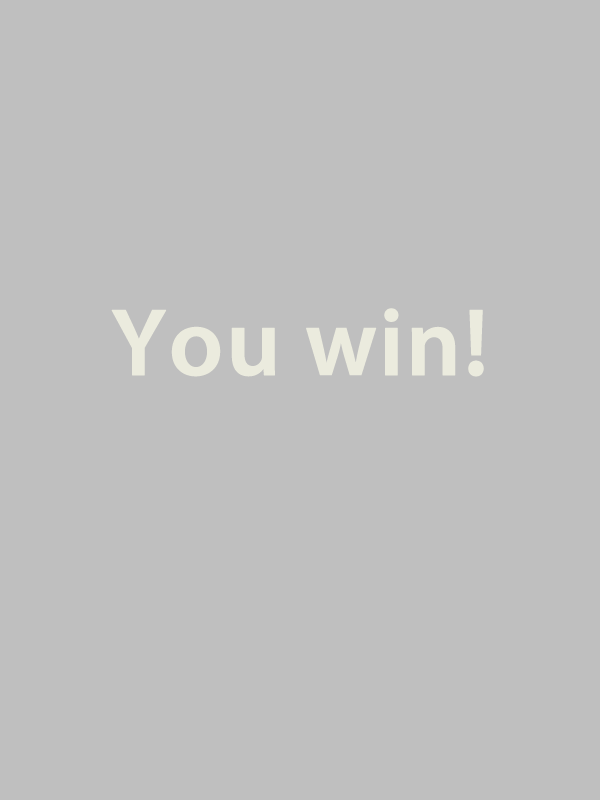
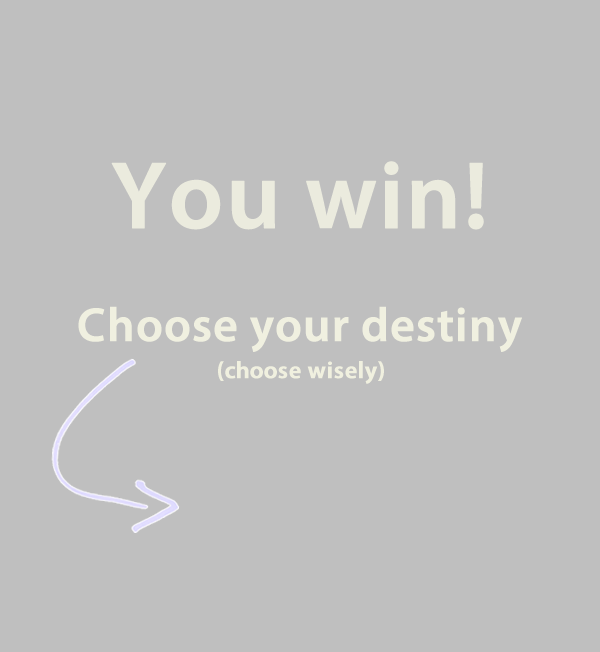
Implemented ContinueButton (to allow player to continue playing after winning).

diff --git a/src/main/java/nl/tudelft/ti2206/game/GameRenderer.java b/src/main/java/nl/tudelft/ti2206/game/GameRenderer.java
@@ -1,5 +1,6 @@
 package nl.tudelft.ti2206.game;
 
+import nl.tudelft.ti2206.buttons.ContinueButton;
 import nl.tudelft.ti2206.buttons.RestartButton;
 import nl.tudelft.ti2206.helpers.AssetHandler;
 import nl.tudelft.ti2206.helpers.ButtonHandler;
@@ -32,8 +33,12 @@ public class GameRenderer {
 	private OrthographicCamera cam;
 	/** */
 	private SpriteBatch batch;
+	
 	/** The button used to initiate a restart. */
 	private RestartButton restartButton;
+	
+	/** The button used to continue the game after winning. */
+	private ContinueButton continueButton;
 
 	/**
 	 * Constructs a GameRenderer object.
@@ -49,6 +54,7 @@ public class GameRenderer {
 		this.world = world;
 
 		restartButton = ButtonHandler.getRestartButton();
+		continueButton = ButtonHandler.getContinueButton();
 		cam = new OrthographicCamera();
 		cam.setToOrtho(true, gameWidth, gameHeight);
 
@@ -82,7 +88,7 @@ public class GameRenderer {
 		drawScoreTile();
 		drawHighscoreTile();
 		drawHighestTile();
-		drawNewGameTile();
+		drawRestartButton();
 
 		if (world.isLost()) {
 			drawLostOverlay();
@@ -165,16 +171,20 @@ public class GameRenderer {
 	/**
 	 * Render the button that will initiate a restart of the game.
 	 */
-	private void drawNewGameTile() {
+	private void drawRestartButton() {
 		restartButton.draw(batch);
 	}
 
+	private void drawContinueButton() {
+		continueButton.draw(batch);
+	}
+	
 	/**
 	 * Draw the lost overlay to show to the user it lost.
 	 */
 	private void drawLostOverlay() {
 		batch.draw(AssetHandler.lost, 0, 0);
-		drawNewGameTile();
+		drawRestartButton();
 	}
 
 	/**
@@ -182,7 +192,8 @@ public class GameRenderer {
 	 */
 	private void drawWonOverlay() {
 		batch.draw(AssetHandler.won, 0, 0);
-		drawNewGameTile();
+		drawRestartButton();
+		drawContinueButton();
 	}
 
 	/**

diff --git a/src/main/java/nl/tudelft/ti2206/helpers/AssetHandler.java b/src/main/java/nl/tudelft/ti2206/helpers/AssetHandler.java
@@ -10,7 +10,7 @@ public class AssetHandler {
 	public static BitmapFont font, whiteFont;
 	/** All sprites used in the game, which should be publicly accessible. */
 	public static Sprite grid, t2, t4, t8, t16, t32, t64, t128, t256, t512,
-			t1024, t2048, empty, score, highscore, highest, newgame, lost, won;
+			t1024, t2048, empty, score, highscore, highest, newgame, continuebutton, lost, won;
 	/** The width of the game. */
 	private static final int GAME_WIDTH = 600;
 	/** The height of the game. */
@@ -66,7 +66,8 @@ public class AssetHandler {
 		manager.load("src/main/resources/fonts/tahomaWhite.fnt",
 				BitmapFont.class);
 		manager.load("src/main/resources/images/newgame.png", Texture.class);
-
+		manager.load("src/main/resources/images/continue.png", Texture.class);
+		
 		/*
 		 * Instruct the asset manager to load everything in its queue, block
 		 * until this is done.
@@ -133,6 +134,12 @@ public class AssetHandler {
 				"src/main/resources/images/newgame.png", Texture.class));
 		setAssetLocation(newgame, GAME_WIDTH / 2 - newgame.getWidth() / 2,
 				GAME_HEIGHT - GAP - newgame.getHeight(), false, true);
+		
+		
+		continuebutton = new Sprite(manager.get(
+				"src/main/resources/images/continue.png", Texture.class));
+		setAssetLocation(continuebutton, GAME_WIDTH / 2 - continuebutton.getWidth() / 2,
+				GAME_HEIGHT - GAP * 3 - continuebutton.getHeight() * 2, false, true);
 	}
 
 	private static void getFonts() {

diff --git a/src/main/java/nl/tudelft/ti2206/helpers/InputHandler.java b/src/main/java/nl/tudelft/ti2206/helpers/InputHandler.java
@@ -1,5 +1,6 @@
 package nl.tudelft.ti2206.helpers;
 
+import nl.tudelft.ti2206.buttons.ContinueButton;
 import nl.tudelft.ti2206.buttons.RestartButton;
 import nl.tudelft.ti2206.game.GameWorld;
 import nl.tudelft.ti2206.gameobjects.Grid.Direction;
@@ -11,10 +12,14 @@ public class InputHandler implements InputProcessor {
 
 	private GameWorld world;
 	private RestartButton restartButton;
+	private ContinueButton continueButton;
 
 	public InputHandler(GameWorld world) {
 		this.world = world;
-		this.restartButton = ButtonHandler.getRestartButton();
+		//this.restartButton = ButtonHandler.getRestartButton();
+		//this.continueButton = ButtonHandler.getContinueButton();
+		setRestartButton(ButtonHandler.getRestartButton());
+		setContinueButton(ButtonHandler.getContinueButton());
 	}
 
 
@@ -68,6 +73,12 @@ public class InputHandler implements InputProcessor {
 			restartButton.onClick(world);
 			return true;
 		}
+		
+		if (continueButton.isTouchDown(screenX, screenY)) {
+			continueButton.onClick(world);
+			return true;
+		}
+		
 		return false;
 	}
 
@@ -81,11 +92,11 @@ public class InputHandler implements InputProcessor {
 		return false;
 	}
 
-	/**
-	 * 
-	 * @return the restart button.
-	 */
 	public void setRestartButton(RestartButton restartButton) {
 		this.restartButton = restartButton;
+	}
+	
+	public void setContinueButton(ContinueButton continueButton) {
+		this.continueButton = continueButton;
 	}
 }

diff --git a/src/main/java/nl/tudelft/ti2206/helpers/ButtonHandler.java b/src/main/java/nl/tudelft/ti2206/helpers/ButtonHandler.java
@@ -1,10 +1,12 @@
 package nl.tudelft.ti2206.helpers;
 
+import nl.tudelft.ti2206.buttons.ContinueButton;
 import nl.tudelft.ti2206.buttons.RestartButton;
 
 public class ButtonHandler {
 
 	private static RestartButton restartButton;
+	private static ContinueButton continueButton;
 
 	/**
 	 * Initializes all buttons.
@@ -14,6 +16,11 @@ public class ButtonHandler {
 				AssetHandler.newgame.getY(), AssetHandler.newgame.getWidth(),
 				AssetHandler.newgame.getHeight(), AssetHandler.newgame,
 				AssetHandler.newgame);
+		
+		continueButton = new ContinueButton(AssetHandler.continuebutton.getX(),
+				AssetHandler.continuebutton.getY(), AssetHandler.continuebutton.getWidth(),
+				AssetHandler.continuebutton.getHeight(), AssetHandler.continuebutton,
+				AssetHandler.continuebutton);
 	}
 
 	/**
@@ -22,5 +29,9 @@ public class ButtonHandler {
 	 */
 	public static RestartButton getRestartButton() {
 		return restartButton;
+	}
+	
+	public static ContinueButton getContinueButton() {
+		return continueButton;
 	}
 }

diff --git a/src/main/java/nl/tudelft/ti2206/buttons/ContinueButton.java b/src/main/java/nl/tudelft/ti2206/buttons/ContinueButton.java
@@ -1,0 +1,32 @@
+ package nl.tudelft.ti2206.buttons;
+
+import nl.tudelft.ti2206.game.GameWorld;
+import nl.tudelft.ti2206.game.GameWorld.GameState;
+
+import com.badlogic.gdx.graphics.g2d.Sprite;
+
+/**
+ * 
+ * @author group-21
+ */
+public class ContinueButton extends SimpleButton {
+
+	/**
+	 * 
+	 * @param x
+	 * @param y
+	 * @param width
+	 * @param height
+	 * @param buttonUp
+	 * @param buttonDown
+	 */
+	public ContinueButton(float x, float y, float width, float height,
+			Sprite buttonUp, Sprite buttonDown) {
+		super(x, y, width, height, buttonUp, buttonDown);
+	}
+
+	@Override
+	public void onClick(GameWorld world) {
+		world.setGameState(GameState.RUNNING);
+	}
+}

diff --git a/src/main/java/nl/tudelft/ti2206/gameobjects/Grid.java b/src/main/java/nl/tudelft/ti2206/gameobjects/Grid.java
@@ -86,9 +86,10 @@ public class Grid {
 		while (loc2 == loc1) {
 			loc2 = getRandomEmptyLocation();
 		}
-
-		grid[loc1].setValue(initialValue());
-		grid[loc2].setValue(initialValue());
+			grid[loc1].setValue(1024);
+			grid[loc2].setValue(1024);
+	//	grid[loc1].setValue(initialValue());
+	//	grid[loc2].setValue(initialValue());
 	}
 
 	/**
